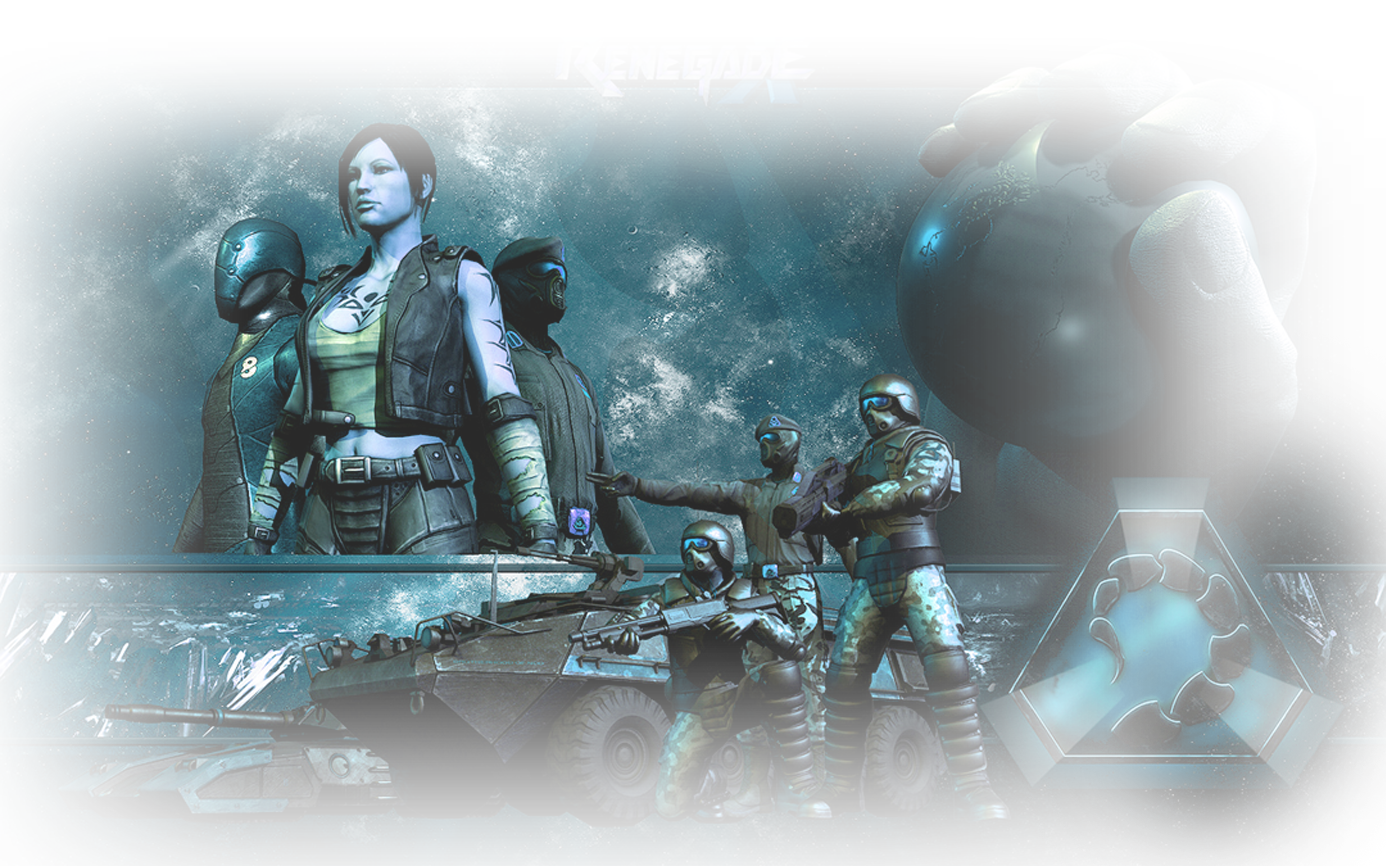
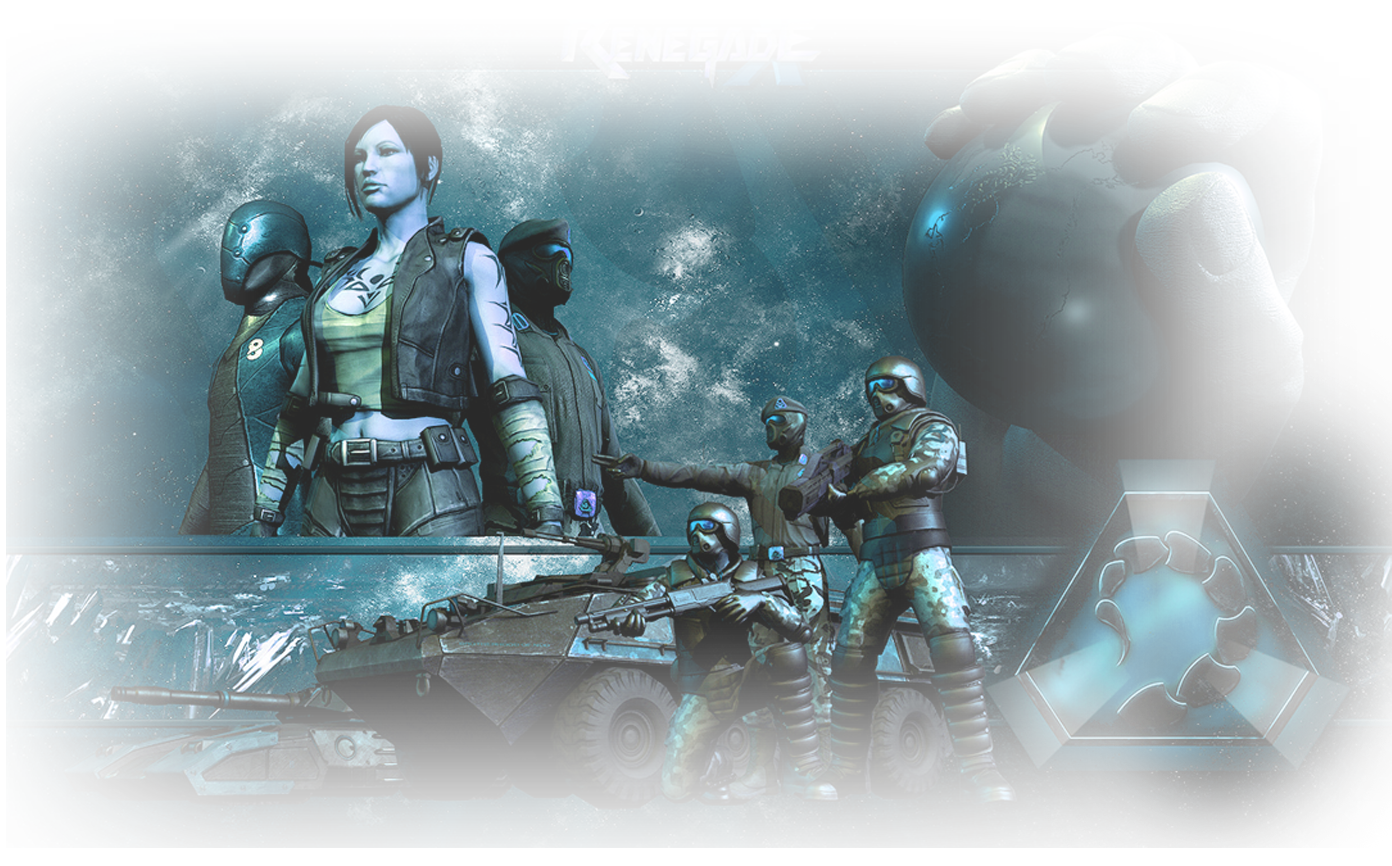
Better background overlay Adding server details overlay Adding server list overlay Adding more layout

diff --git a/RXL.WPFClient/Views/MainWindow.xaml b/RXL.WPFClient/Views/MainWindow.xaml
@@ -13,26 +13,29 @@
     <Grid>
         <Grid.Background>
             <ImageBrush ImageSource="/RXL;component/Assets/Background.png"
-                        Stretch="UniformToFill"
                         AlignmentX="Left"
                         AlignmentY="Top" />
         </Grid.Background>
 
         <Grid HorizontalAlignment="Center"
               VerticalAlignment="Top"
-              Width="1385"
+              Margin="0,20,0,0"
+              Width="1435"
               Height="865">
             <Grid.Background>
                 <ImageBrush ImageSource="/RXL;component/Assets/BackgroundOverlay.png"
-                            Stretch="UniformToFill" />
+                            Stretch="Uniform"
+                            AlignmentX="Left"
+                            AlignmentY="Top"/>
             </Grid.Background>
 
             <Grid.RowDefinitions>
-                <RowDefinition Height="215" />
+                <RowDefinition Height="195" />
                 <RowDefinition Height="*" />
             </Grid.RowDefinitions>
 
-            <Grid Margin="0,30,0,0">
+            <Grid Margin="0,10,0,0"
+                  Grid.Row="0">
                 <Grid.ColumnDefinitions>
                     <ColumnDefinition Width="*" />
                     <ColumnDefinition Width="500" />
@@ -99,6 +102,26 @@
                 </StackPanel>
             </Grid>
 
+            <Grid Grid.Row="1">
+                <Grid.ColumnDefinitions>
+                    <ColumnDefinition Width="924"/>
+                    <ColumnDefinition Width="494"/>
+                </Grid.ColumnDefinitions>
+                
+                <Grid Grid.Column="0">
+                    <Grid.Background>
+                        <ImageBrush ImageSource="/RXL;component/Assets/ServerListOverlay.png"/>
+                    </Grid.Background>
+                </Grid>
+
+                <Grid Grid.Column="1"
+                      Margin="20,0,0,0">
+                    <Grid.Background>
+                        <ImageBrush ImageSource="/RXL;component/Assets/ServerDetailsOverlay.png" />
+                    </Grid.Background>
+                </Grid>
+
+            </Grid>
 
         </Grid>
 
